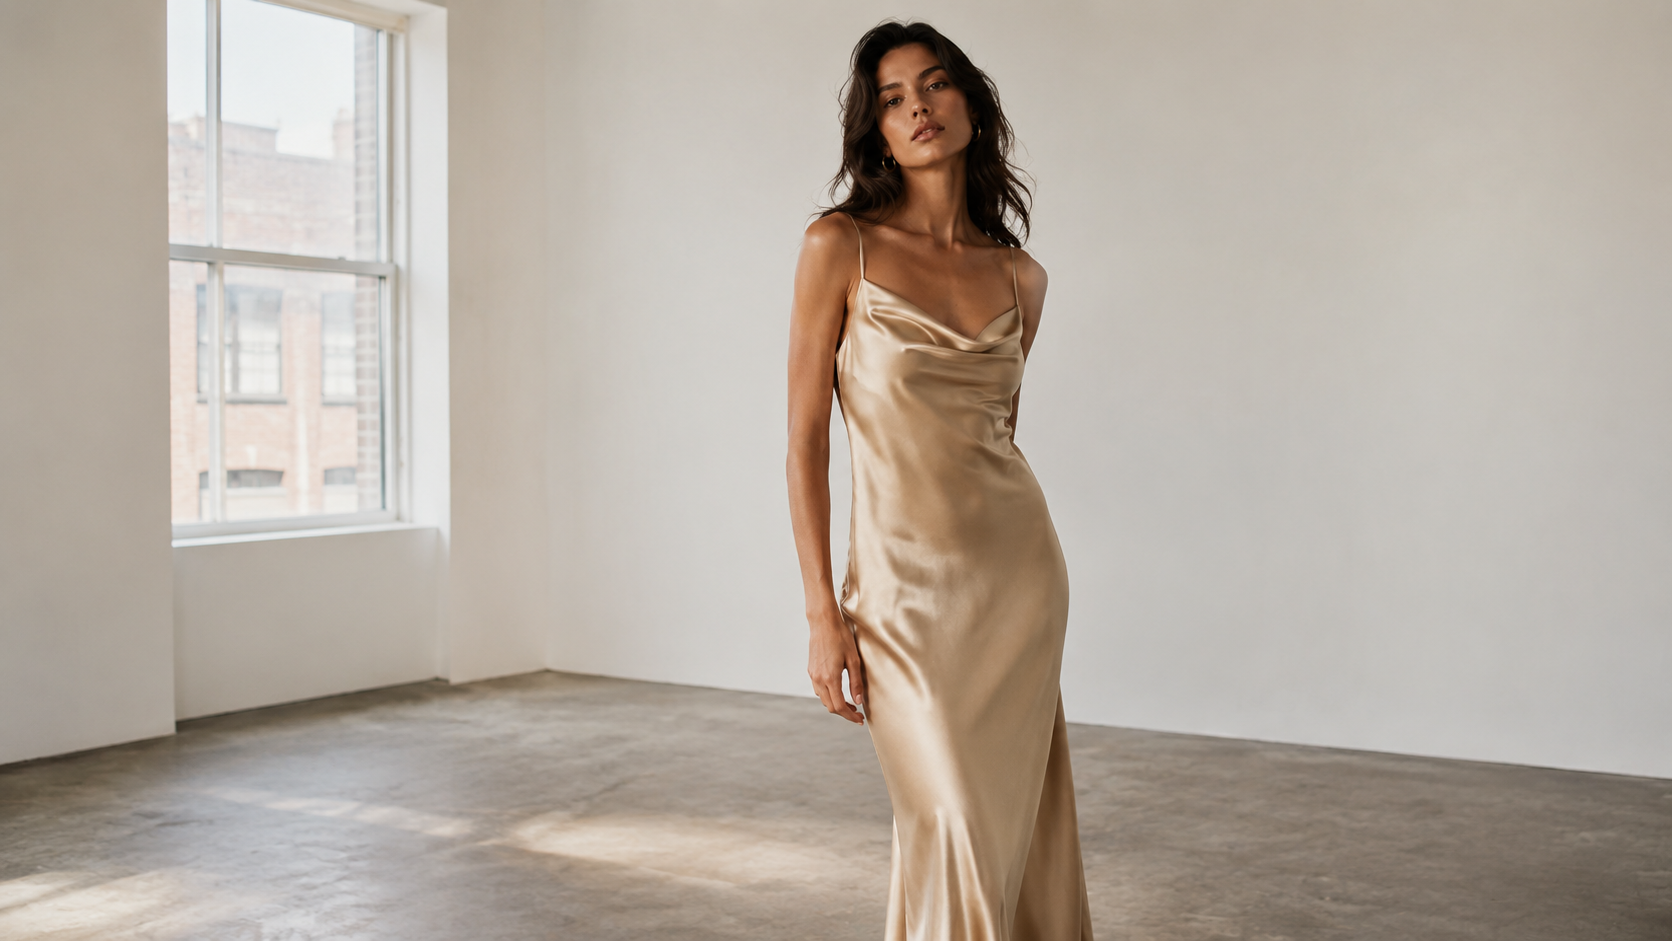
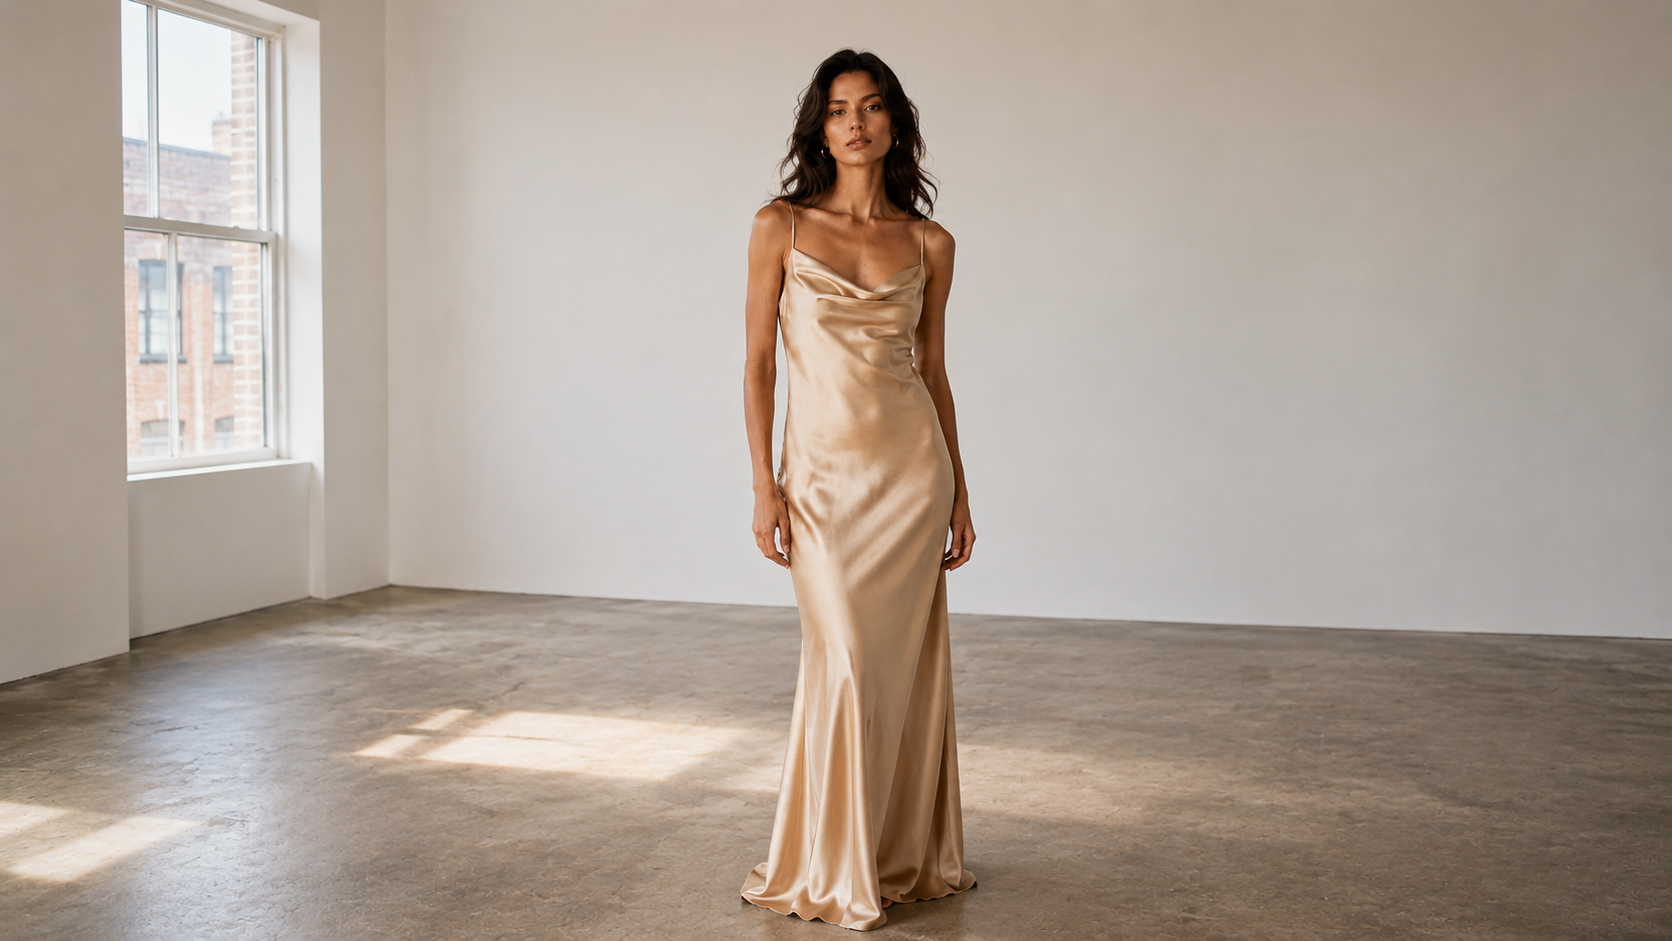
Toggle add/remove on product bag button: if in cart, remove instead

diff --git a/src/components/ui/ProductCard.tsx b/src/components/ui/ProductCard.tsx
@@ -32,6 +32,7 @@ function BagIconSmall() {
 
 export function ProductCard({ product, aspectRatio = "aspect-[3/4]" }: ProductCardProps) {
   const addItem = useCartStore((s) => s.addItem);
+  const removeItem = useCartStore((s) => s.removeItem);
   const items = useCartStore((s) => s.items);
   const inCart = items.some((i) => i.id === product.id);
   const [justAdded, setJustAdded] = useState(false);
@@ -41,16 +42,20 @@ export function ProductCard({ product, aspectRatio = "aspect-[3/4]" }: ProductCa
     return () => clearTimeout(addedTimer.current);
   }, []);
 
-  const handleAddToCart = (e: React.MouseEvent) => {
+  const handleToggleCart = (e: React.MouseEvent) => {
     e.preventDefault();
-    addItem({
-      id: product.id,
-      name: product.name,
-      price: product.price,
-      size: "M",
-      image: product.image,
-      category: product.category,
-    });
+    if (inCart) {
+      removeItem(product.id, "M");
+    } else {
+      addItem({
+        id: product.id,
+        name: product.name,
+        price: product.price,
+        size: "M",
+        image: product.image,
+        category: product.category,
+      });
+    }
     setJustAdded(true);
     clearTimeout(addedTimer.current);
     addedTimer.current = setTimeout(() => setJustAdded(false), 1200);
@@ -98,8 +103,8 @@ export function ProductCard({ product, aspectRatio = "aspect-[3/4]" }: ProductCa
               {formatCurrency(product.price)}
             </span>
             <motion.button
-              aria-label={inCart ? `${product.name} in bag` : `Add ${product.name} to bag`}
-              onClick={handleAddToCart}
+              aria-label={inCart ? `Remove ${product.name} from bag` : `Add ${product.name} to bag`}
+              onClick={handleToggleCart}
               whileTap={{ scale: 0.9 }}
               animate={
                 justAdded